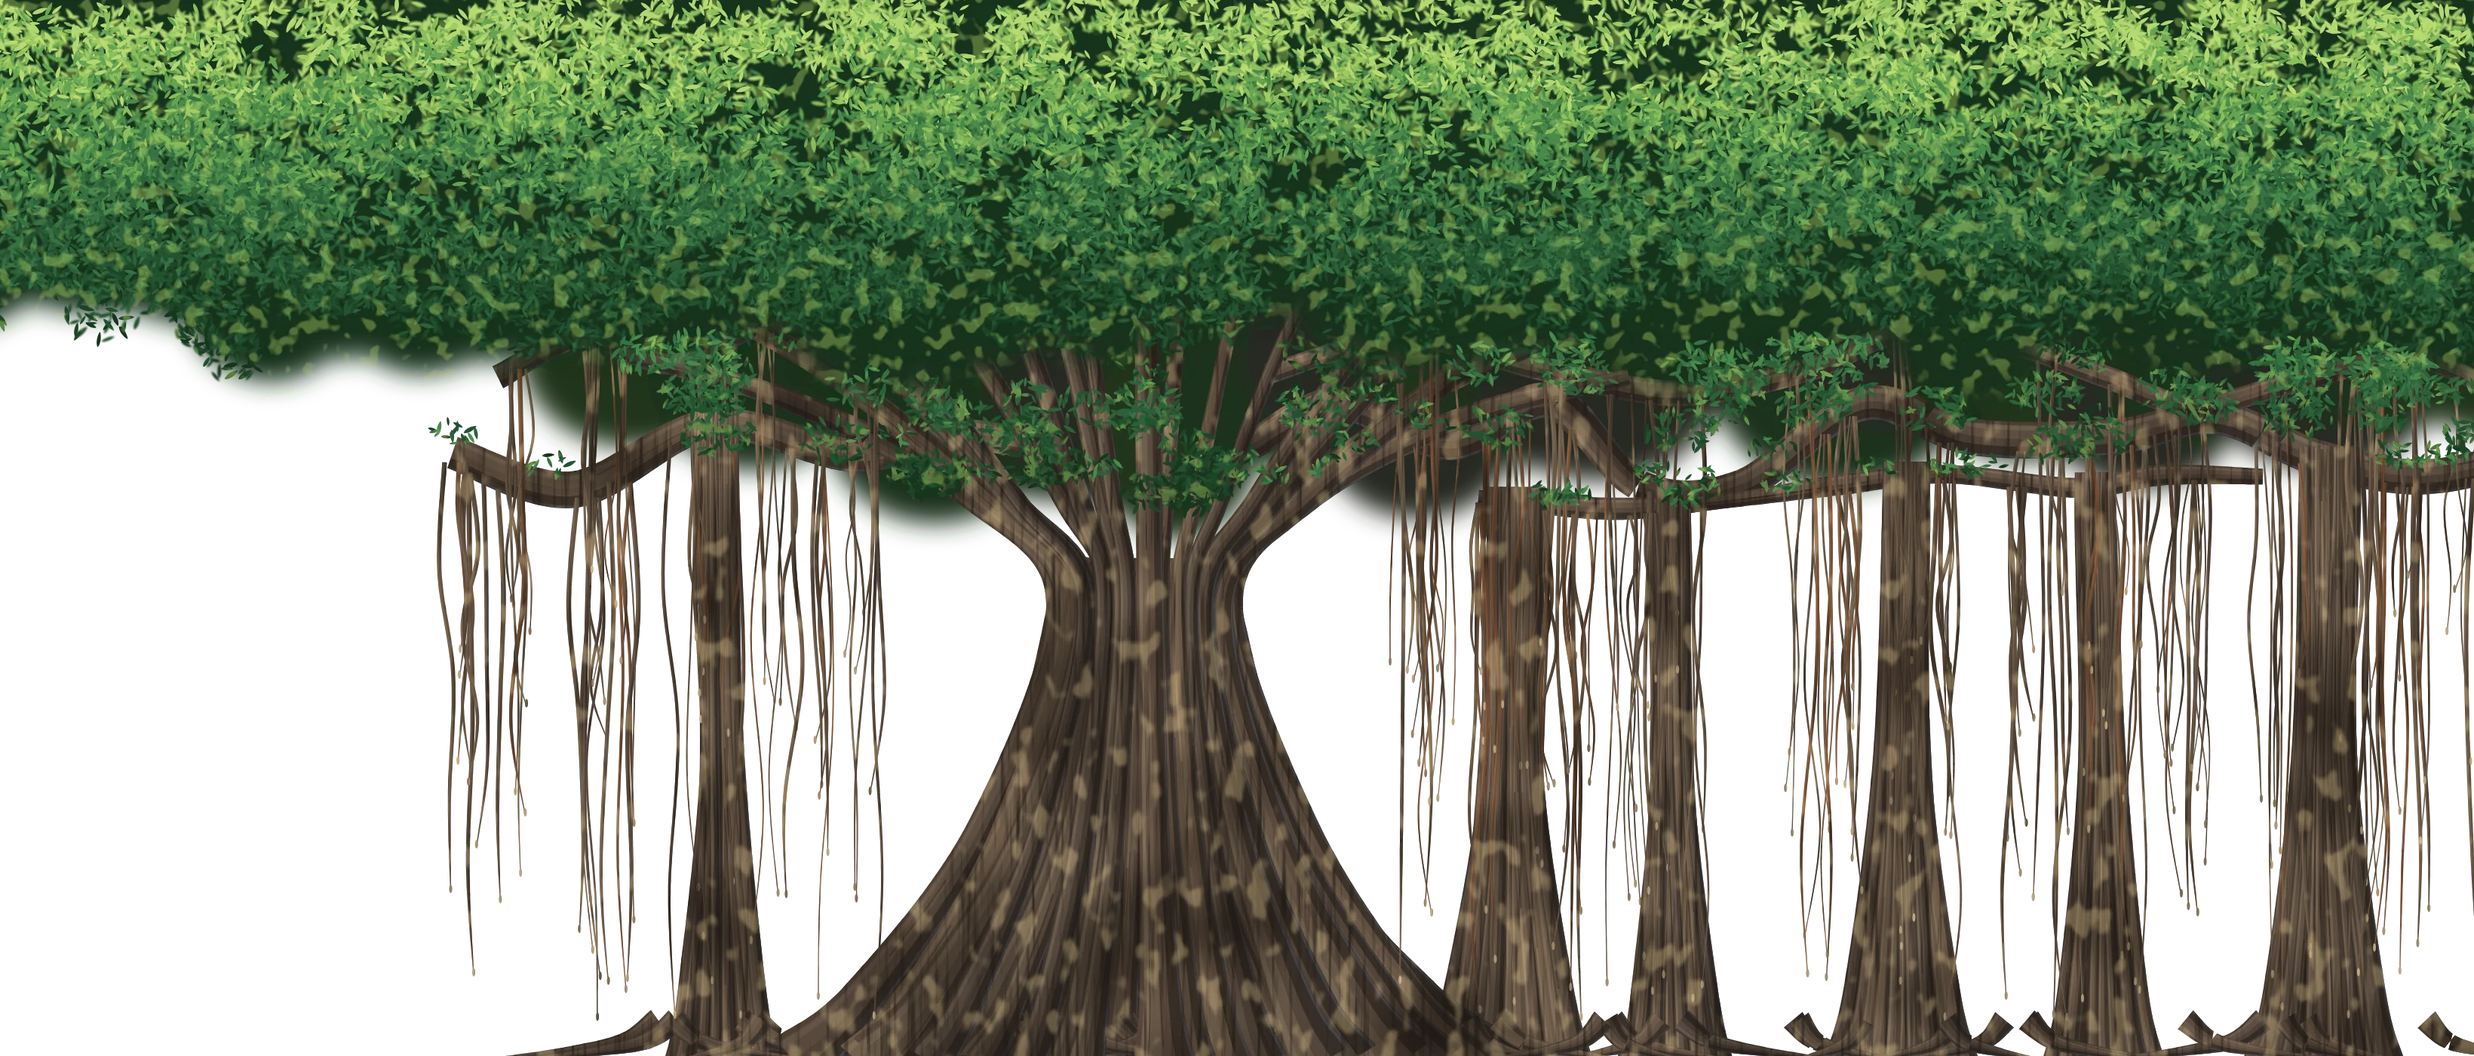
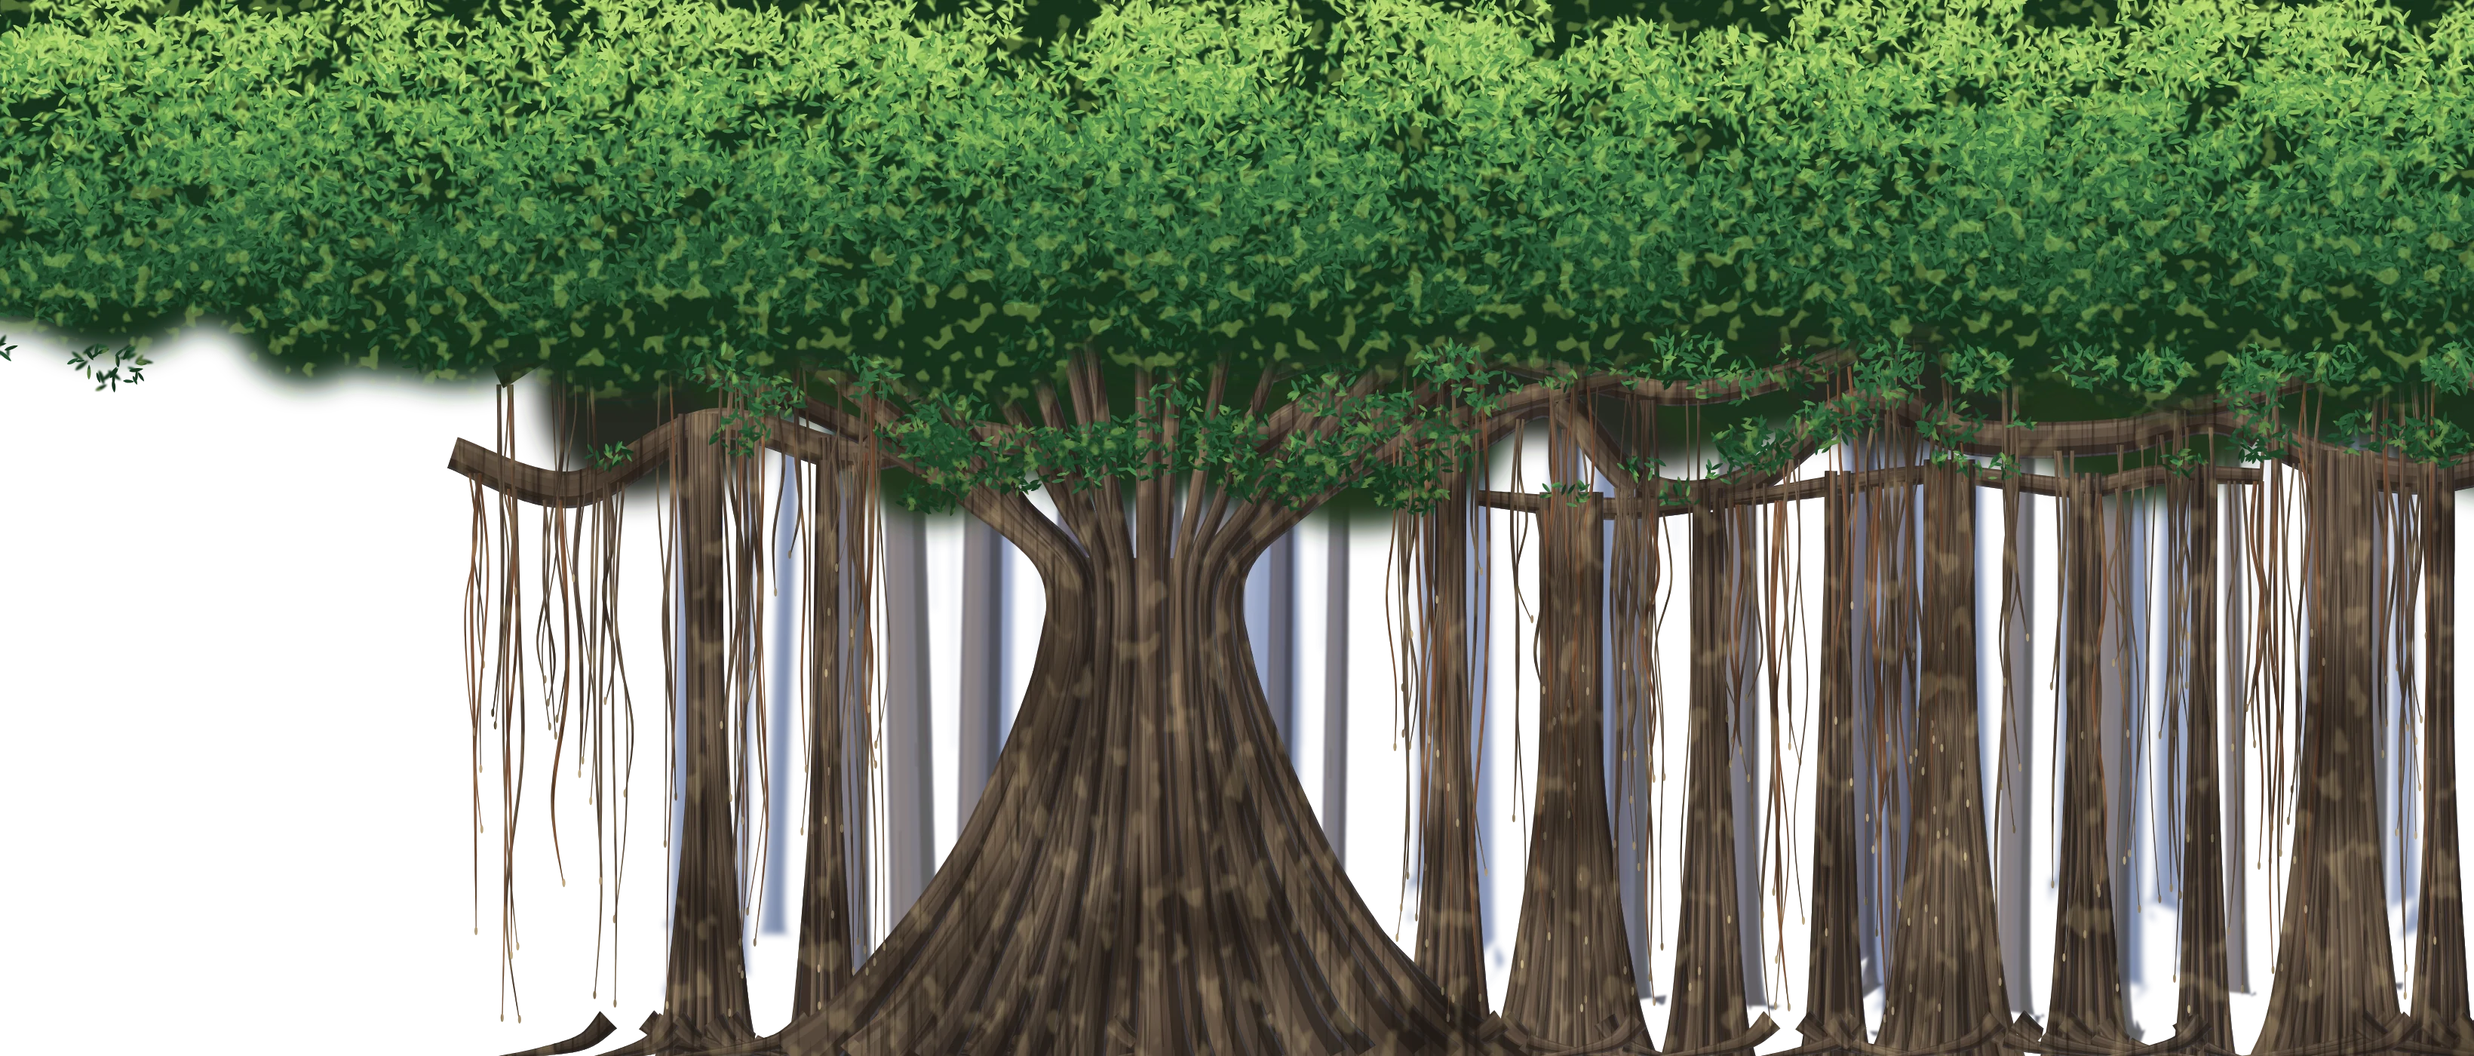
Bord gauche corrigé ; offres en verre, bouton unique ; banian plus dense avec forêt de troncs en arrière-plan
Claude-Session: https://claude.ai/code/session_01Nt8rFWjdj5spwPEUakjUMS

diff --git a/index.html b/index.html
@@ -19,7 +19,7 @@
 <meta property="og:image:height" content="630">
 <meta name="twitter:card" content="summary_large_image">
 <link rel="preload" href="fonts/geist.woff2" as="font" type="font/woff2" crossorigin>
-<link rel="stylesheet" href="style.css?v=202611131945">
+<link rel="stylesheet" href="style.css?v=202611132000">
 <script data-goatcounter="https://paulow.goatcounter.com/count" async src="https://gc.zgo.at/count.js"></script>
 <script>/* mesure d'audience sans cookies (GoatCounter) : clics importants */
 document.addEventListener('click',function(e){var g=window.goatcounter;if(!g||!g.count)return;var a=e.target.closest&&e.target.closest('a,button');if(!a)return;var h=a.getAttribute('href')||'',n='';
@@ -75,8 +75,8 @@ else if(a.matches('.pol-carte'))n='carte-ouverte';else if(h.indexOf('courbe/')==
         <a class="btn btn-blanc" href="#devis">Demander un devis</a>
         <a class="btn btn-contour" href="introduction.html">Essayer gratuitement <span class="btn-sous">· 10 min</span></a>
       </div>
-      <img class="banian banian-arriere" src="banian-arriere.webp?v=12" alt="" width="1640" height="700" aria-hidden="true" decoding="async">
-      <img class="banian banian-avant" src="banian-avant.webp?v=12" alt="" width="1640" height="700" aria-hidden="true" decoding="async">
+      <img class="banian banian-arriere" src="banian-arriere.webp?v=13" alt="" width="1640" height="700" aria-hidden="true" decoding="async">
+      <img class="banian banian-avant" src="banian-avant.webp?v=13" alt="" width="1640" height="700" aria-hidden="true" decoding="async">
       <figure class="polaroid" id="polaroid">
         <svg class="pol-racines" viewBox="-46 -6 262 278" preserveAspectRatio="none" aria-hidden="true"><g fill="none" stroke="#A07E60" stroke-linecap="round" stroke-linejoin="round"><path d="M6.0 135.6 L2.1 134.8 L-1.9 134.3 L-5.9 133.8 L-9.8 133.0 L-13.7 132.3 L-17.7 131.6 L-21.6 130.8 L-25.5 130.1 L-29.4 129.1 L-33.2 128.0 L-37.1 126.8" stroke-width="0.70"/><path d="M6.0 135.6 L2.1 134.8 L-1.9 134.3 L-5.9 133.8 L-9.8 133.0 L-13.7 132.3 L-17.7 131.6" stroke-width="1.56"/><path d="M6.0 135.6 L2.1 134.8 L-1.9 134.3 L-5.9 133.8" stroke-width="1.94"/><path d="M-5.9 133.8 L-8.4 130.7 L-10.9 127.5 L-13.2 124.3 L-15.3 120.9" stroke-width="0.70"/><path d="M-5.9 133.8 L-8.4 130.7 L-10.9 127.5" stroke-width="0.64"/><path d="M-5.9 133.8 L-8.4 130.7" stroke-width="0.80"/><path d="M-5.9 133.8 L-9.8 134.7 L-13.7 135.1 L-17.7 135.6 L-21.7 136.2 L-25.6 136.9 L-29.6 137.4" stroke-width="0.70"/><path d="M-5.9 133.8 L-9.8 134.7 L-13.7 135.1 L-17.7 135.6" stroke-width="0.64"/><path d="M-5.9 133.8 L-9.8 134.7" stroke-width="0.80"/><path d="M-9.8 134.7 L-13.4 133.0 L-17.2 131.8" stroke-width="0.70"/><path d="M-9.8 134.7 L-13.4 133.0" stroke-width="0.30"/><path d="M-9.8 134.7 L-13.4 133.0" stroke-width="0.38"/><path d="M-5.9 133.8 L-9.7 135.0 L-13.5 136.0 L-17.4 137.2 L-21.0 138.8 L-24.5 140.7" stroke-width="0.70"/><path d="M-5.9 133.8 L-9.7 135.0 L-13.5 136.0" stroke-width="0.64"/><path d="M-5.9 133.8 L-9.7 135.0" stroke-width="0.80"/><path d="M-9.7 135.0 L-13.7 135.1" stroke-width="0.70"/><path d="M-9.7 135.0 L-13.7 135.1" stroke-width="0.30"/><path d="M-9.7 135.0 L-13.7 135.1" stroke-width="0.37"/><path d="M6.0 169.5 L2.1 168.6 L-1.8 167.9 L-5.8 167.4 L-9.8 167.0 L-13.8 167.3 L-17.7 168.0 L-21.5 169.1 L-25.3 170.5 L-28.9 172.3 L-32.4 174.2" stroke-width="0.70"/><path d="M6.0 169.5 L2.1 168.6 L-1.8 167.9 L-5.8 167.4 L-9.8 167.0 L-13.8 167.3 L-17.7 168.0" stroke-width="1.39"/><path d="M6.0 169.5 L2.1 168.6 L-1.8 167.9 L-5.8 167.4" stroke-width="1.72"/><path d="M-17.7 168.0 L-21.6 166.9 L-25.4 165.7 L-29.1 164.2 L-32.6 162.3 L-36.0 160.2" stroke-width="0.70"/><path d="M-17.7 168.0 L-21.6 166.9 L-25.4 165.7" stroke-width="0.35"/><path d="M-17.7 168.0 L-21.6 166.9" stroke-width="0.43"/><path d="M6.0 203.4 L2.0 202.9 L-1.9 202.5 L-5.9 202.2 L-9.9 201.9 L-13.9 201.7 L-17.9 201.5 L-21.9 201.2 L-25.9 201.1 L-29.9 200.8 L-33.8 200.1 L-37.8 199.3 L-41.6 198.2" stroke-width="0.70"/><path d="M6.0 203.4 L2.0 202.9 L-1.9 202.5 L-5.9 202.2 L-9.9 201.9 L-13.9 201.7 L-17.9 201.5 L-21.9 201.2" stroke-width="1.35"/><path d="M6.0 203.4 L2.0 202.9 L-1.9 202.5 L-5.9 202.2" stroke-width="1.68"/><path d="M-9.9 201.9 L-11.9 198.4 L-13.8 194.9 L-15.4 191.3 L-16.8 187.5 L-18.0 183.7" stroke-width="0.70"/><path d="M-9.9 201.9 L-11.9 198.4 L-13.8 194.9" stroke-width="0.52"/><path d="M-9.9 201.9 L-11.9 198.4" stroke-width="0.64"/><path d="M-11.9 198.4 L-15.1 196.1" stroke-width="0.70"/><path d="M-11.9 198.4 L-15.1 196.1" stroke-width="0.24"/><path d="M-11.9 198.4 L-15.1 196.1" stroke-width="0.29"/><path d="M-11.9 198.4 L-14.8 195.7" stroke-width="0.70"/><path d="M-11.9 198.4 L-14.8 195.7" stroke-width="0.24"/><path d="M-11.9 198.4 L-14.8 195.7" stroke-width="0.29"/><path d="M-11.9 198.4 L-15.7 197.1 L-19.4 195.6" stroke-width="0.70"/><path d="M-11.9 198.4 L-15.7 197.1" stroke-width="0.24"/><path d="M-11.9 198.4 L-15.7 197.1" stroke-width="0.29"/><path d="M-21.9 201.2 L-25.0 203.7 L-27.7 206.7 L-30.2 209.8 L-32.4 213.2" stroke-width="0.70"/><path d="M-21.9 201.2 L-25.0 203.7 L-27.7 206.7" stroke-width="0.34"/><path d="M-21.9 201.2 L-25.0 203.7" stroke-width="0.43"/><path d="M164.0 126.6 L168.0 127.1 L171.8 128.3 L175.4 130.0 L178.5 132.5 L181.0 135.7 L182.6 139.3 L183.9 143.1 L185.3 146.9 L186.3 150.7" stroke-width="0.70"/><path d="M164.0 126.6 L168.0 127.1 L171.8 128.3 L175.4 130.0 L178.5 132.5 L181.0 135.7" stroke-width="1.33"/><path d="M164.0 126.6 L168.0 127.1 L171.8 128.3" stroke-width="1.66"/><path d="M178.5 132.5 L177.3 136.3 L176.4 140.2 L175.7 144.2 L175.1 148.1" stroke-width="0.70"/><path d="M178.5 132.5 L177.3 136.3 L176.4 140.2" stroke-width="0.44"/><path d="M178.5 132.5 L177.3 136.3" stroke-width="0.55"/><path d="M175.4 130.0 L175.0 134.0 L174.6 138.0 L174.1 141.9" stroke-width="0.70"/><path d="M175.4 130.0 L175.0 134.0" stroke-width="0.51"/><path d="M175.4 130.0 L175.0 134.0" stroke-width="0.64"/><path d="M164.0 162.7 L168.0 162.5 L172.0 162.6 L176.0 162.6 L180.0 162.8 L183.9 163.4 L187.8 164.3 L191.6 165.6 L195.3 167.1 L198.7 169.3" stroke-width="0.70"/><path d="M164.0 162.7 L168.0 162.5 L172.0 162.6 L176.0 162.6 L180.0 162.8 L183.9 163.4" stroke-width="1.22"/><path d="M164.0 162.7 L168.0 162.5 L172.0 162.6" stroke-width="1.52"/><path d="M176.0 162.6 L180.0 162.6 L184.0 162.3 L188.0 161.9" stroke-width="0.70"/><path d="M176.0 162.6 L180.0 162.6" stroke-width="0.47"/><path d="M176.0 162.6 L180.0 162.6" stroke-width="0.58"/><path d="M180.0 162.8 L183.9 162.0 L187.8 161.4" stroke-width="0.70"/><path d="M180.0 162.8 L183.9 162.0" stroke-width="0.40"/><path d="M180.0 162.8 L183.9 162.0" stroke-width="0.50"/><path d="M164.0 198.9 L167.8 200.0 L171.7 201.0 L175.6 202.1 L179.4 203.3 L183.1 204.8 L186.7 206.4 L190.3 208.3 L193.5 210.6 L196.4 213.4" stroke-width="0.70"/><path d="M164.0 198.9 L167.8 200.0 L171.7 201.0 L175.6 202.1 L179.4 203.3 L183.1 204.8" stroke-width="1.46"/><path d="M164.0 198.9 L167.8 200.0 L171.7 201.0" stroke-width="1.82"/><path d="M186.7 206.4 L186.8 210.4 L187.3 214.4 L187.8 218.3" stroke-width="0.70"/><path d="M186.7 206.4 L186.8 210.4" stroke-width="0.32"/><path d="M186.7 206.4 L186.8 210.4" stroke-width="0.40"/><path d="M30.6 220.0 L31.9 223.8 L33.1 227.6 L34.7 231.3 L36.4 234.9 L38.1 238.5 L40.0 242.0 L42.4 245.3" stroke-width="0.70"/><path d="M30.6 220.0 L31.9 223.8 L33.1 227.6 L34.7 231.3 L36.4 234.9" stroke-width="1.25"/><path d="M30.6 220.0 L31.9 223.8 L33.1 227.6" stroke-width="1.55"/><path d="M36.4 234.9 L40.4 235.2 L44.3 235.7 L48.2 236.8" stroke-width="0.70"/><path d="M36.4 234.9 L40.4 235.2" stroke-width="0.34"/><path d="M36.4 234.9 L40.4 235.2" stroke-width="0.43"/><path d="M38.1 238.5 L42.0 239.3 L45.9 240.3 L49.7 241.4" stroke-width="0.70"/><path d="M38.1 238.5 L42.0 239.3" stroke-width="0.26"/><path d="M38.1 238.5 L42.0 239.3" stroke-width="0.32"/><path d="M71.4 220.0 L72.3 223.9 L73.0 227.8 L73.5 231.8 L73.5 235.8 L72.7 239.7 L71.3 243.5 L69.5 247.1 L67.6 250.6" stroke-width="0.70"/><path d="M71.4 220.0 L72.3 223.9 L73.0 227.8 L73.5 231.8 L73.5 235.8" stroke-width="1.34"/><path d="M71.4 220.0 L72.3 223.9 L73.0 227.8" stroke-width="1.66"/><path d="M73.5 231.8 L69.7 233.0 L66.1 234.7 L62.8 237.0 L60.1 239.9" stroke-width="0.70"/><path d="M73.5 231.8 L69.7 233.0 L66.1 234.7" stroke-width="0.49"/><path d="M73.5 231.8 L69.7 233.0" stroke-width="0.61"/><path d="M107.1 220.0 L107.5 224.0 L107.5 228.0 L107.5 232.0 L107.3 236.0 L107.2 240.0 L107.4 244.0 L107.8 247.9 L108.2 251.9" stroke-width="0.70"/><path d="M107.1 220.0 L107.5 224.0 L107.5 228.0 L107.5 232.0 L107.3 236.0" stroke-width="1.22"/><path d="M107.1 220.0 L107.5 224.0 L107.5 228.0" stroke-width="1.51"/><path d="M107.2 240.0 L104.4 242.9 L101.5 245.6 L98.5 248.2" stroke-width="0.70"/><path d="M107.2 240.0 L104.4 242.9" stroke-width="0.30"/><path d="M107.2 240.0 L104.4 242.9" stroke-width="0.37"/><path d="M144.5 220.0 L144.6 224.0 L144.6 228.0 L144.4 232.0 L144.4 236.0 L144.7 240.0 L145.0 244.0 L145.4 247.9 L145.7 251.9" stroke-width="0.70"/><path d="M144.5 220.0 L144.6 224.0 L144.6 228.0 L144.4 232.0 L144.4 236.0" stroke-width="1.35"/><path d="M144.5 220.0 L144.6 224.0 L144.6 228.0" stroke-width="1.68"/><path d="M144.4 232.0 L142.9 235.7 L142.0 239.6 L141.1 243.5" stroke-width="0.70"/><path d="M144.4 232.0 L142.9 235.7" stroke-width="0.50"/><path d="M144.4 232.0 L142.9 235.7" stroke-width="0.62"/></g></svg>
         <button type="button" class="pol-carte" aria-label="Paul.M — Paul Moreaux, fondateur de Frenglais : agrandir">
@@ -176,7 +176,7 @@ else if(a.matches('.pol-carte'))n='carte-ouverte';else if(h.indexOf('courbe/')==
         <div class="o-durees" role="radiogroup" aria-label="Formule"><button type="button" role="radio" data-k="complete" aria-checked="true">Complète</button><button type="button" role="radio" data-k="immersion">Immersion</button></div>
         <p class="o-prix"><b></b><span></span></p>
         <ul class="o-liste"></ul>
-        <a class="o-cta" href="#devis">Demander l'accès</a>
+        <a class="o-cta" href="#devis">Demander un devis</a>
       </article>
     </div>
   </section>

diff --git a/style.css b/style.css
@@ -1223,7 +1223,7 @@ footer::after{opacity:.58}
 .hero h1{color:#fff;text-shadow:0 2px 24px rgba(8,22,70,.55),0 1px 2px rgba(8,22,70,.4)}
 .hero .h1-suite{color:#DDE6FF}
 .hero .hero-texte{position:relative}
-.hero .hero-texte::before{content:"";position:absolute;inset:-60px -120px -40px -80px;z-index:-1;pointer-events:none;background:radial-gradient(ellipse at 35% 50%,rgba(20,52,140,.55),rgba(20,52,140,0) 70%)}
+.hero .hero-texte::before{content:none}
 @media (min-width:1101px){.banian{filter:saturate(.85)}.banian-arriere{opacity:.86}}
 @media (max-width:640px){.hero .surtitre{font-size:12.5px}}
 /* recentrer l'attention sur les formations : accroche et titre plus présents, décor un cran plus discret */
@@ -1271,3 +1271,27 @@ footer::after{opacity:.58}
 .o-phare .o-cta{background:linear-gradient(180deg,#fff,#E9EEFA);color:#0E1E4A;box-shadow:inset 0 1px 0 #fff,0 10px 24px -12px rgba(0,0,0,.6)}
 .o-prive .o-cta{background:linear-gradient(180deg,#1A1A1C,#0B0B0C);color:#F3E7CC;box-shadow:inset 0 1px 0 rgba(255,255,255,.12),0 10px 24px -12px rgba(0,0,0,.5)}
 @media (max-width:980px){.o-promesse{min-height:0}}
+
+/* bord gauche démarqué : le flou de verre du menu (backdrop-filter) faisait recomposer le haut de page en bande ; verre conservé, sans backdrop */
+
+
+/* ===== Offres en verre ===== */
+#formations{position:relative}
+.offres{position:relative;isolation:isolate}
+.offres::before{content:"";position:absolute;inset:-60px -40px;z-index:-1;pointer-events:none;filter:blur(40px);opacity:.9;
+  background:radial-gradient(38% 55% at 14% 40%,rgba(64,118,232,.42),transparent 70%),radial-gradient(32% 50% at 52% 70%,rgba(240,118,111,.28),transparent 70%),radial-gradient(34% 55% at 88% 35%,rgba(214,176,108,.38),transparent 70%)}
+.offre{--fond:linear-gradient(160deg,rgba(255,255,255,.72),rgba(236,242,255,.48));--trait:rgba(255,255,255,.7);
+  -webkit-backdrop-filter:blur(22px) saturate(1.5);backdrop-filter:blur(22px) saturate(1.5);border:1px solid rgba(255,255,255,.75);
+  box-shadow:inset 0 1px 0 rgba(255,255,255,.95),inset 0 -1px 0 rgba(28,73,165,.06),0 30px 60px -36px rgba(14,27,61,.45)}
+.offre .o-prix{border-bottom-color:rgba(14,27,61,.08)}
+.o-phare{--fond:linear-gradient(165deg,rgba(28,58,140,.86),rgba(12,26,66,.9));border-color:rgba(255,255,255,.18);
+  box-shadow:inset 0 1px 0 rgba(255,255,255,.22),0 34px 64px -30px rgba(10,22,54,.7)}
+.o-phare .o-prix{border-bottom-color:rgba(255,255,255,.12)}
+.o-prive{--fond:linear-gradient(160deg,rgba(255,250,238,.74),rgba(246,234,208,.5));border-color:rgba(255,255,255,.8)}
+.o-durees{background:rgba(14,27,61,.06);border-color:rgba(255,255,255,.6)}
+.o-phare .o-durees{background:rgba(255,255,255,.08);border-color:rgba(255,255,255,.14)}
+.o-durees button[aria-checked="true"]{background:rgba(255,255,255,.92)!important;color:#0E1B3D!important;box-shadow:0 1px 3px rgba(14,27,61,.18),inset 0 1px 0 #fff!important}
+/* un seul bouton, le même partout */
+.offre .o-cta,.o-phare .o-cta,.o-prive .o-cta{background:linear-gradient(180deg,#F38A83,#E0685F);color:#fff;border:1px solid rgba(255,255,255,.35);
+  box-shadow:inset 0 1px 0 rgba(255,255,255,.45),0 12px 26px -12px rgba(224,104,95,.85)}
+.offre .o-cta:hover{filter:brightness(1.05)}

diff --git a/espace-eleve.html b/espace-eleve.html
@@ -7,7 +7,7 @@
 <meta name="robots" content="noindex">
 <meta name="description" content="L'espace en ligne des élèves Frenglais : modules, progression et suivi.">
 <link rel="icon" type="image/png" sizes="64x64" href="favicon.png"><link rel="icon" type="image/png" sizes="32x32" href="favicon-32.png"><link rel="apple-touch-icon" href="apple-touch-icon.png">
-<link rel="stylesheet" href="style.css?v=202611131945">
+<link rel="stylesheet" href="style.css?v=202611132000">
 <script data-goatcounter="https://paulow.goatcounter.com/count" async src="https://gc.zgo.at/count.js"></script>
 <script>/* mesure d'audience sans cookies (GoatCounter) : clics importants */
 document.addEventListener('click',function(e){var g=window.goatcounter;if(!g||!g.count)return;var a=e.target.closest&&e.target.closest('a,button');if(!a)return;var h=a.getAttribute('href')||'',n='';

diff --git a/cgv.html b/cgv.html
@@ -6,7 +6,7 @@
 <title>Conditions générales de vente · Frenglais</title>
 <meta name="robots" content="noindex">
 <link rel="icon" type="image/png" sizes="64x64" href="favicon.png"><link rel="icon" type="image/png" sizes="32x32" href="favicon-32.png"><link rel="apple-touch-icon" href="apple-touch-icon.png">
-<link rel="stylesheet" href="style.css?v=202611131945">
+<link rel="stylesheet" href="style.css?v=202611132000">
 <script data-goatcounter="https://paulow.goatcounter.com/count" async src="https://gc.zgo.at/count.js"></script>
 <script>/* mesure d'audience sans cookies (GoatCounter) : clics importants */
 document.addEventListener('click',function(e){var g=window.goatcounter;if(!g||!g.count)return;var a=e.target.closest&&e.target.closest('a,button');if(!a)return;var h=a.getAttribute('href')||'',n='';

diff --git a/404.html b/404.html
@@ -6,7 +6,7 @@
 <title>Page introuvable · Frenglais</title>
 <meta name="robots" content="noindex">
 <link rel="icon" type="image/png" sizes="64x64" href="/favicon.png"><link rel="icon" type="image/png" sizes="32x32" href="/favicon-32.png"><link rel="apple-touch-icon" href="/apple-touch-icon.png">
-<link rel="stylesheet" href="/style.css?v=202611131945">
+<link rel="stylesheet" href="/style.css?v=202611132000">
 <script data-goatcounter="https://paulow.goatcounter.com/count" async src="https://gc.zgo.at/count.js"></script>
 <script>/* mesure d'audience sans cookies (GoatCounter) : clics importants */
 document.addEventListener('click',function(e){var g=window.goatcounter;if(!g||!g.count)return;var a=e.target.closest&&e.target.closest('a,button');if(!a)return;var h=a.getAttribute('href')||'',n='';

diff --git a/mentions-legales.html b/mentions-legales.html
@@ -6,7 +6,7 @@
 <title>Mentions légales · Frenglais</title>
 <meta name="robots" content="noindex">
 <link rel="icon" type="image/png" sizes="64x64" href="favicon.png"><link rel="icon" type="image/png" sizes="32x32" href="favicon-32.png"><link rel="apple-touch-icon" href="apple-touch-icon.png">
-<link rel="stylesheet" href="style.css?v=202611131945">
+<link rel="stylesheet" href="style.css?v=202611132000">
 <script data-goatcounter="https://paulow.goatcounter.com/count" async src="https://gc.zgo.at/count.js"></script>
 <script>/* mesure d'audience sans cookies (GoatCounter) : clics importants */
 document.addEventListener('click',function(e){var g=window.goatcounter;if(!g||!g.count)return;var a=e.target.closest&&e.target.closest('a,button');if(!a)return;var h=a.getAttribute('href')||'',n='';

diff --git a/confidentialite.html b/confidentialite.html
@@ -6,7 +6,7 @@
 <title>Confidentialité · Frenglais</title>
 <meta name="robots" content="noindex">
 <link rel="icon" type="image/png" sizes="64x64" href="favicon.png"><link rel="icon" type="image/png" sizes="32x32" href="favicon-32.png"><link rel="apple-touch-icon" href="apple-touch-icon.png">
-<link rel="stylesheet" href="style.css?v=202611131945">
+<link rel="stylesheet" href="style.css?v=202611132000">
 <script data-goatcounter="https://paulow.goatcounter.com/count" async src="https://gc.zgo.at/count.js"></script>
 <script>/* mesure d'audience sans cookies (GoatCounter) : clics importants */
 document.addEventListener('click',function(e){var g=window.goatcounter;if(!g||!g.count)return;var a=e.target.closest&&e.target.closest('a,button');if(!a)return;var h=a.getAttribute('href')||'',n='';

diff --git a/livre.html b/livre.html
@@ -12,7 +12,7 @@
 
 <script data-goatcounter="https://paulow.goatcounter.com/count" async src="https://gc.zgo.at/count.js"></script>
 <script>document.addEventListener('click',function(e){var g=window.goatcounter;if(!g||!g.count)return;var a=e.target.closest&&e.target.closest('a');if(a&&(a.getAttribute('href')||'').indexOf('amazon')>-1)g.count({path:'clic-livre-amazon',title:'livre-amazon',event:true});},true);</script>
-<link rel="stylesheet" href="style.css?v=202611131945">
+<link rel="stylesheet" href="style.css?v=202611132000">
 <style>
 *{box-sizing:border-box}
 html,body{margin:0;height:100%}
